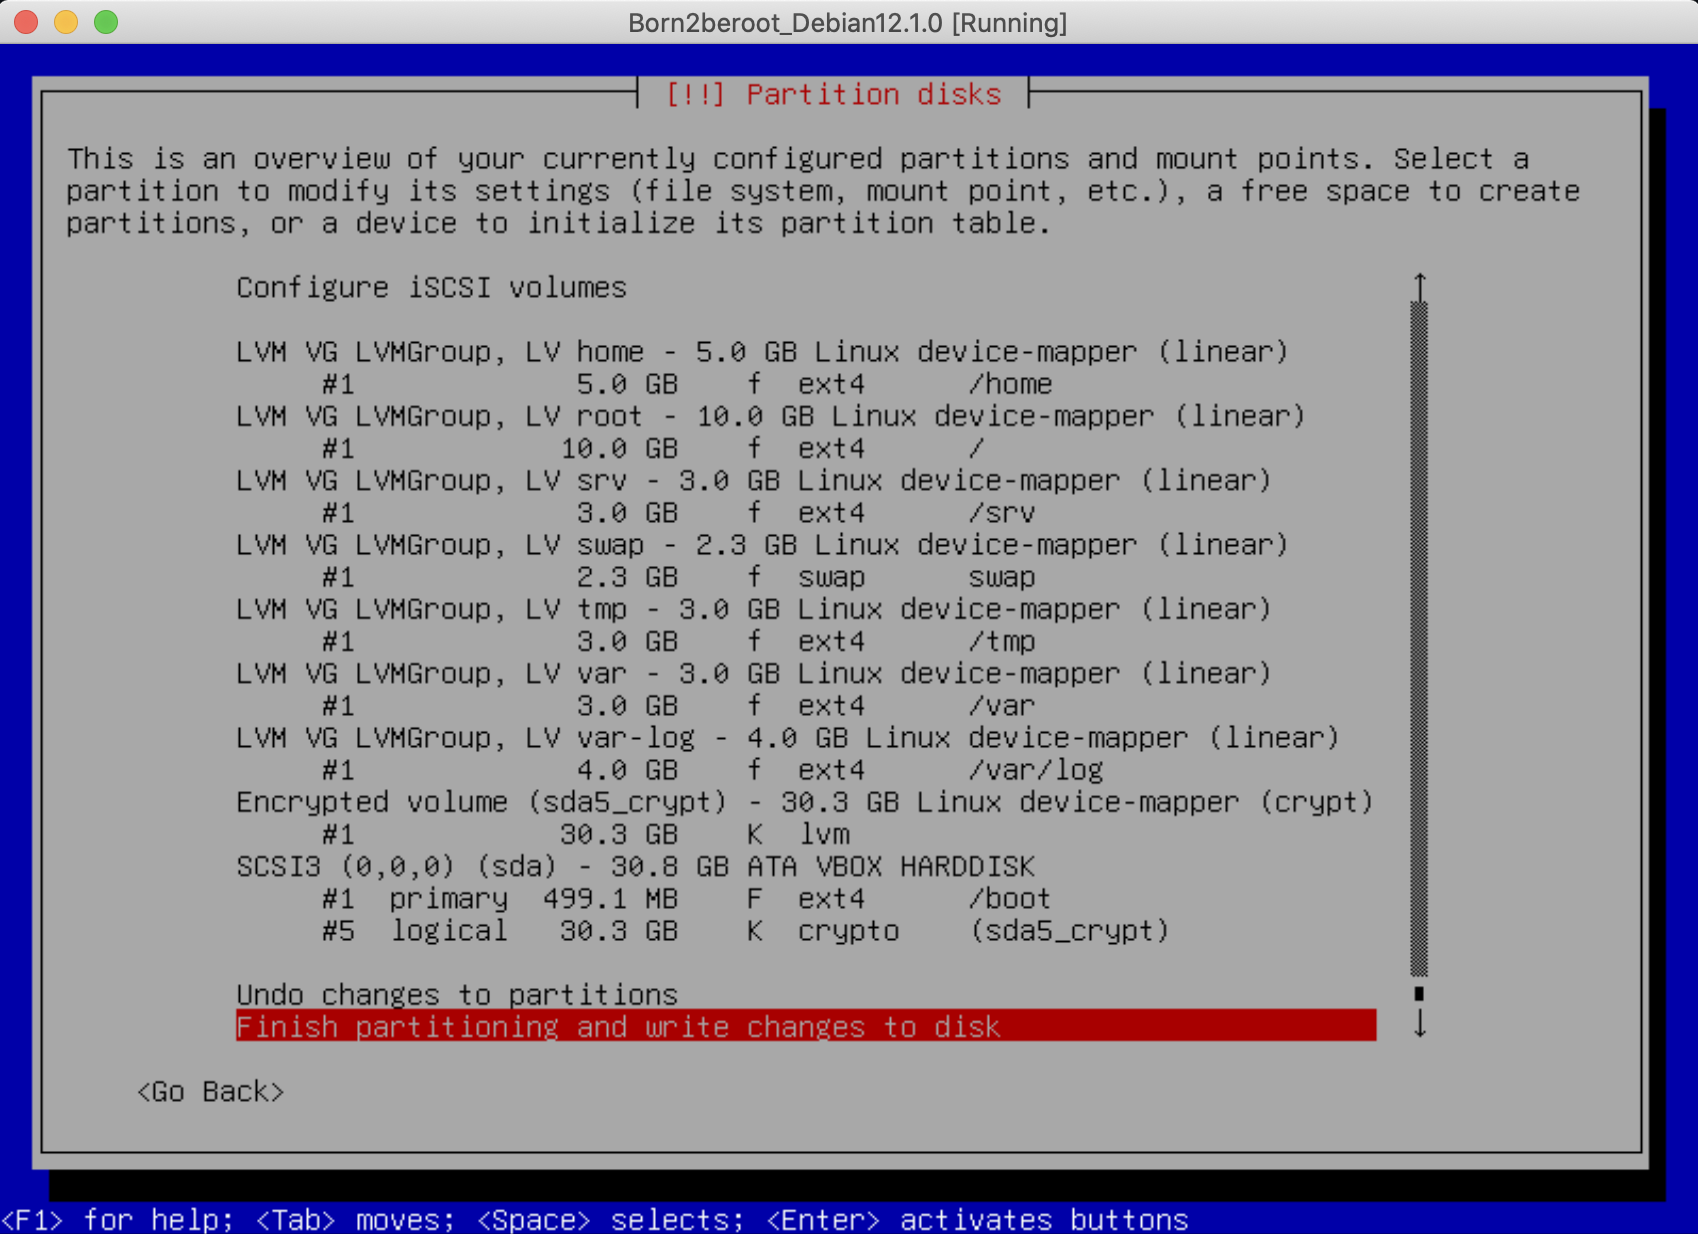
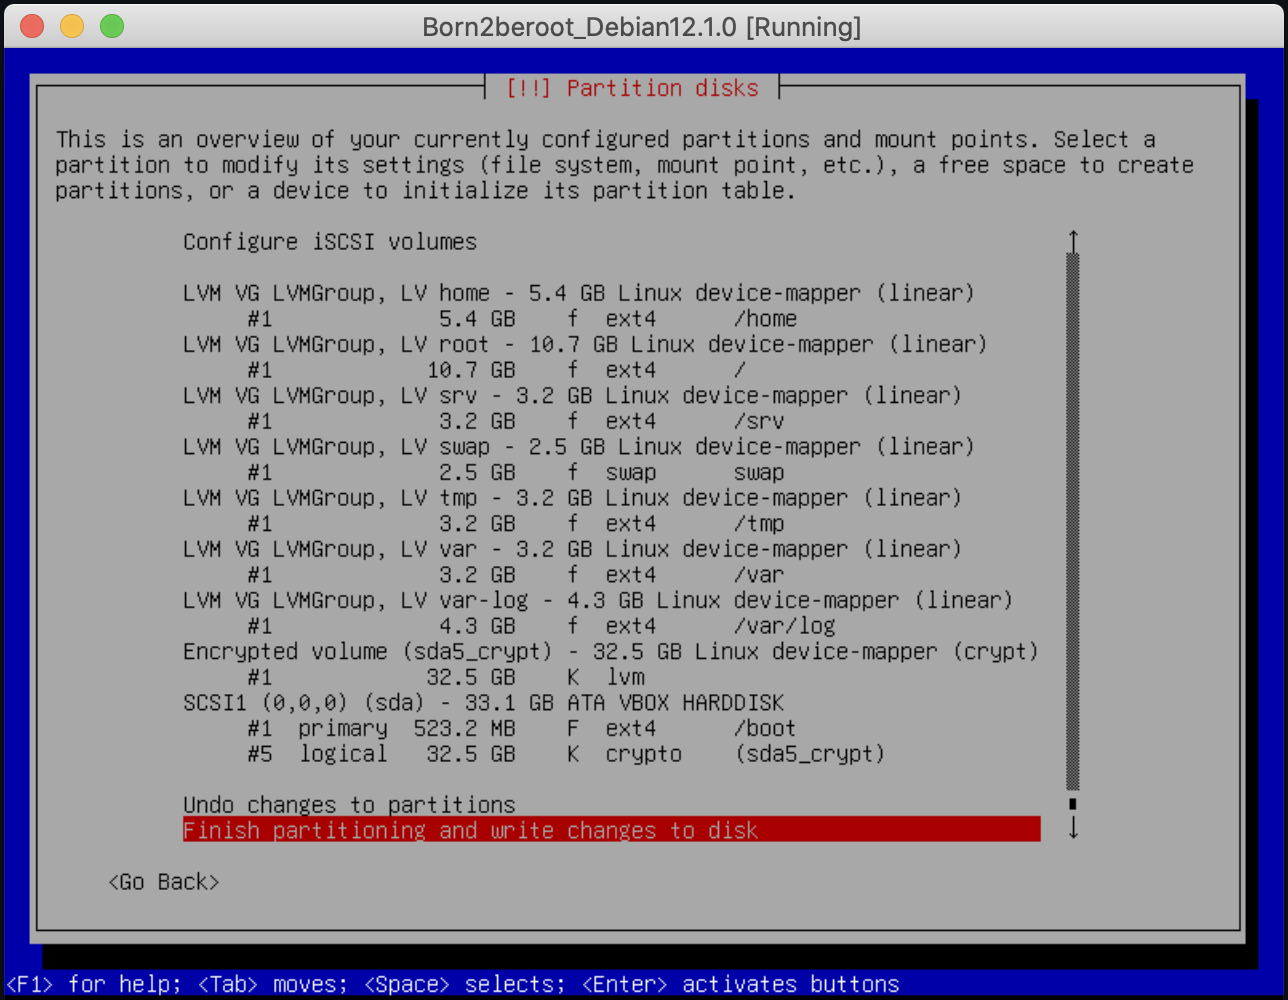
Day 6 of 'project.md'

Changed region(s): [[0.0, 0.0, 1.0, 1.0], [0.0621, 0.217, 0.8385, 0.899], [0.4658, 0.744, 0.528, 0.775]]

diff --git a/42-cursus/common-core-rank01/Born2beroot/project.md b/42-cursus/common-core-rank01/Born2beroot/project.md
@@ -39,7 +39,7 @@ Open VirtualBox and select **`New`**.
 
 > `Create a Virtual Hard Disk Now` ☉ this button
 - Hard Disk File location for the .vdi (VirtualBox Disk Image) should be automatically selected in our VM's folder.
-- Increase size to `28.70 GB` for the *bonus* sections of this project. NOTE: VirtualBox uses the *traditional* 1 GB = 1,073,741,824 bytes, while Debian's installer uses the *modern* 1 GB = 1,000,000,000 bytes. These 28.70 GB correspond with the 30.8 GB of the project's document.
+- Increase size to `30.80 GB` for the *bonus* sections of this project. [**NOTE**: Both Debian and VirtualBox use the *traditional* 1 GB = (1,024)^3 = 1,073,741,824 bytes. However, Debian's installer uses the *modern* 1 GB = 1,000,000,000 bytes, perhaps to accomodate the manufacturers' scheming of inflated HD sizes.]
 - No need to Pre-allocate Full Size.
 
 After pressing **`Finish`**, the VM should be created in the `sgoinfre` subfolder of our choice.
@@ -100,12 +100,12 @@ Before continuing, resize the Machine's Window by pressing `⌘ + C`. Adjust the
 Set all partitions as: `Ext4 journaling file system`
 
 > Partitioning method: `Manual`<br>
-> `SCSI3 (0,0,0) (sda) - 30.8 GB ATA VBOX HARDDISK`
-- Location for the new partition table.
+> `SCSI3 (0,0,0) (sda) - 33.1 GB ATA VBOX HARDDISK`
+- Location for the new partition table. NOTE
 > Create new empty partition table on this device? `Yes`<br>
-> `pri/log 30.8 GB FREE SPACE`<br>
+> `pri/log 33.1 GB FREE SPACE`<br>
 > How to use this free space: `Create a new partition`<br>
-> New partition size: `500M`
+> New partition size: `524`
 - This will be `sda1` and contain the OS.
 > Type for the new partition: `Primary`<br>
 > Location for the new partition: `Beginning`<br>
@@ -113,7 +113,7 @@ Set all partitions as: `Ext4 journaling file system`
 >> Mount point: `/boot` \<After selecting `/boot - static files of the boot loader`\><br>
 >> `Done setting up the partition`
 > 
-> `pri/log 30.3 GB FREE SPACE`<br>
+> `pri/log 32.5 GB FREE SPACE`<br>
 > How to use this free space: `Create a new partition`<br>
 > New partition size: `max`
 - Next create a LV (Logical Volume) with the rest of the free space.
@@ -126,8 +126,8 @@ Set all partitions as: `Ext4 journaling file system`
 > Write the changes to disk and configure encrypted volumes? `Yes`<br>
 > Encryption configuration actions: `Create encrypted volumes`<br>
 > Devices to encrypt:
->> `[ ] /dev/sda1 (499MB; ext4)`<br>
->> `[*] /dev/sda5 (30314MB; ext4)`
+>> `[ ] /dev/sda1 (523MB; ext4)`<br>
+>> `[*] /dev/sda5 (32545MB; ext4)`
 - Encrypt only the logical volume.
 > Partition settings:
 >> `Done setting up the partition`
@@ -144,90 +144,90 @@ Set all partitions as: `Ext4 journaling file system`
 > Volume group name: `LVMGroup`
 - This is the name suggested in the project's document.
 > Devices for the new volume group:
->> `[*] /dev/mapper/sda5_crypt (30297MB; ext4)`<br>
->> `[ ] /dev/sda1 (499MB; ext4)`
+>> `[*] /dev/mapper/sda5_crypt (32528MB; ext4)`<br>
+>> `[ ] /dev/sda1 (523MB; ext4)`
 >
 > LVM configuration action: `Create logical volume`<br>
-> Volume group: `LVMGroup (30295MB)`<br>
+> Volume group: `LVMGroup (32526MB)`<br>
 > Logical volume name: `root`<br>
-> Logical volume size: `10G`
+> Logical volume size: `10737`
 - And repeat for the next six volumes in the group!
 > LVM configuration action: `Create logical volume`<br>
-> Volume group: `LVMGroup (20296MB)`<br>
+> Volume group: `LVMGroup (21793MB)`<br>
 > Logical volume name: `swap`<br>
-> Logical volume size: `2.3G`<br>
+> Logical volume size: `2470`<br>
 > LVM configuration action: `Create logical volume`<br>
-> Volume group: `LVMGroup (17997MB)`<br>
+> Volume group: `LVMGroup (19327MB)`<br>
 > Logical volume name: `home`<br>
-> Logical volume size: `5G`<br>
+> Logical volume size: `5369`<br>
 > LVM configuration action: `Create logical volume`<br>
-> Volume group: `LVMGroup (12998MB)`<br>
+> Volume group: `LVMGroup (13958MB)`<br>
 > Logical volume name: `var`<br>
-> Logical volume size: `3G`<br>
+> Logical volume size: `3221`<br>
 > LVM configuration action: `Create logical volume`<br>
-> Volume group: `LVMGroup (9999MB)`<br>
+> Volume group: `LVMGroup (10741MB)`<br>
 > Logical volume name: `srv`<br>
-> Logical volume size: `3G`<br>
+> Logical volume size: `3221`<br>
 > LVM configuration action: `Create logical volume`<br>
-> Volume group: `LVMGroup (7000MB)`<br>
+> Volume group: `LVMGroup (7524MB)`<br>
 > Logical volume name: `tmp`<br>
-> Logical volume size: `3G`<br>
+> Logical volume size: `3221`<br>
 > LVM configuration action: `Create logical volume`<br>
-> Volume group: `LVMGroup (4001MB)`<br>
+> Volume group: `LVMGroup (4307MB)`<br>
 > Logical volume name: `var-log`<br>
-> Logical volume size: `4001MB`<br>
+> Logical volume size: `4307MB` \<leave unchanged\><br>
 > LVM configuration action: `Finish`
 - We now have to specify the use and mounting points for each of the volumes in the group:
->> `LVM VG LVMGroup, LV home - 5.0 GB Linux device-mapper (linear)`<br>
->> `#1 5.0 GB` \<select this row\>
+>> `LVM VG LVMGroup, LV home - 5.4 GB Linux device-mapper (linear)`<br>
+>> `#1 5.4 GB` \<select this row\>
 >
 > Partition settings:
 >> Use as: `Ext4 journaling file system`<br>
 >> Mount point: `/home` \<After selecting `/home - user home directories`\><br>
 >> `Done setting up the partition`
 >
->> `LVM VG LVMGroup, LV root - 10.0 GB Linux device-mapper (linear)`<br>
->> `#1 10.0 GB` \<select this row\>
+>> `LVM VG LVMGroup, LV root - 10.7 GB Linux device-mapper (linear)`<br>
+>> `#1 10.7 GB` \<select this row\>
 >
 > Partition settings:
 >> Use as: `Ext4 journaling file system`<br>
 >> Mount point: `/` \<After selecting `/ - the root file system`\><br>
 >> `Done setting up the partition`
 >
->> `LVM VG LVMGroup, LV srv - 3.0 GB Linux device-mapper (linear)`<br>
->> `#1 3.0 GB` \<select this row\>
+>> `LVM VG LVMGroup, LV srv - 3.2 GB Linux device-mapper (linear)`<br>
+>> `#1 3.2 GB` \<select this row\>
 >
 > Partition settings:
 >> Use as: `Ext4 journaling file system`<br>
 >> Mount point: `/srv` \<After selecting `/srv - data for services provided by this system`\><br>
 >> `Done setting up the partition`
 >
->> `LVM VG LVMGroup, LV swap - 2.3 GB Linux device-mapper (linear)`<br>
->> `#1 2.3 GB` \<select this row\>
+>> `LVM VG LVMGroup, LV swap - 2.5 GB Linux device-mapper (linear)`<br>
+>> `#1 2.5 GB` \<select this row\>
 >
 > Partition settings:
 >> Use as: `swap area`
 - This partition does not use the Ext4 file system. No mount point required either.
 >> `Done setting up the partition`
 >
->> `LVM VG LVMGroup, LV tmp - 3.0 GB Linux device-mapper (linear)`<br>
->> `#1 3.0 GB` \<select this row\>
+>> `LVM VG LVMGroup, LV tmp - 3.2 GB Linux device-mapper (linear)`<br>
+>> `#1 3.2 GB` \<select this row\>
 >
 > Partition settings:
 >> Use as: `Ext4 journaling file system`<br>
 >> Mount point: `/tmp` \<After selecting `/tmp - temporary files`\><br>
 >> `Done setting up the partition`
 >
->> `LVM VG LVMGroup, LV var - 3.0 GB Linux device-mapper (linear)`<br>
->> `#1 3.0 GB` \<select this row\>
+>> `LVM VG LVMGroup, LV var - 3.2 GB Linux device-mapper (linear)`<br>
+>> `#1 3.2 GB` \<select this row\>
 >
 > Partition settings:
 >> Use as: `Ext4 journaling file system`<br>
 >> Mount point: `/var` \<After selecting `/var - variable data`\><br>
 >> `Done setting up the partition`
 >
->> `LVM VG LVMGroup, LV var-log - 4.0 GB Linux device-mapper (linear)`<br>
->> `#1 4.0 GB` \<select this row\>
+>> `LVM VG LVMGroup, LV var-log - 4.3 GB Linux device-mapper (linear)`<br>
+>> `#1 4.3 GB` \<select this row\>
 >
 > Partition settings:
 >> Use as: `Ext4 journaling file system`<br>
@@ -244,11 +244,19 @@ Set all partitions as: `Ext4 journaling file system`
 
 Installation of the OS at this stage may take a while.
 
+#### Configure the package manager
+
 > Scan extra installation media? `No`<br>
 > Debian archive mirror country: `Spain` (§)<br>
 > Debian archive mirror: `deb.debian.org`<br>
-> HTTP proxy information (blank for none): ` ` \<leave empty\><br>
-> Participate in the package usage survey? `No`<br>
+> HTTP proxy information (blank for none): ` ` \<leave empty\>
+
+#### Configuring popularity-contest
+
+> Participate in the package usage survey? `No`
+
+#### Software selection
+
 > Choose software to install:
 >> `[ ] Debian desktop environment`<br>
 >> `[ ] ... GNOME`<br>
@@ -260,11 +268,56 @@ Installation of the OS at this stage may take a while.
 >> `[ ] ... LXDE`<br>
 >> `[ ] ... LXQt`<br>
 >> `[ ] web server`<br>
->> `[ ] SSH server`<br>
+>> `[*] SSH server`<br>
 >> `[ ] standard system utilities`
-- Deselect all options and select none of the predefined collections.
+- Deselect all options and install the predefined SSH collection (OpenSSH).
+
+#### Configuring grub-pc
+
 > Install the GRUB boot loader to your primary drive? `Yes`<br>
-> Device for boot loader installation: `/dev/sda (ata-VBOX_HARDDISK_VB6f2eb40c-0d001e88)
+> Device for boot loader installation: `/dev/sda (ata-VBOX_HARDDISK_VB6f2eb40c-0d001e88)`
 - Obviously, the serial number above will be different in each case.
+
+#### Finish the installation
+
 > `Continue`
-- Success!
+- Success! [**TIP**: Cloning the virtual machine after the installation is a sensible precaution before moving on.]
+
+---
+
+### 3. Configuring the virtual machine
+
+Henceforth, enter your Debian installation by pressing `Debian GNU/Linux` in the GNU GRUB loading screen, and unlock the encrypted partition:
+> Please unlock disk sda5_crypt: `Born2beroot42` (§)
+
+But before continuing, power the machine off to enable the ports.
+
+#### Setting the ports
+
+Navigate to the `Network` menu, either by pressing the **`Settings`** button or the `Network` reticule of the machine's `Display` view.<br>
+Expand to the `Advanced` options and press the **`Port Forwarding`** button.
+
+![Port Forwarding](./img2.png "Press the 'Port Forwarding' button")
+
+Add a new rule:
+> `Name		Protocol	Host Port	Guest Port`<br>
+> `Rule 1	TCP			1717		4242`
+- *Host port* may be any port of our liking, `1717` (§) in this case, but it **must** be rerouted to *guest port* `4242` in our virtual machine.
+
+Turn the machine on  and login as `root` user to continue with the project:
+> rtorrent42 login: `root` (§)<br>
+> Password: `Born2beroot00` (§)
+
+#### Secure Shell setup
+
+SSH server should be present in the machine. You may test this with `service ssh status`. If this is not the case, install it now by typing `apt install openssh-server` and confirming with `y`.
+
+#### Uncomplicated Firewall setup
+
+> `apt install ufw`<br>
+> Do you want to continue? [Y/n] `y` \<a simple `⏎` in the keyboard will suffice\><br>
+> `ufw enable`
+- Activates UFW for immediate use and enables it on system boot.
+> `ufw allow 4242`
+- As instructed in the document, port 4242 is left open.
+- Type `ufw status` to confirm that port 4242 is indeed open.
